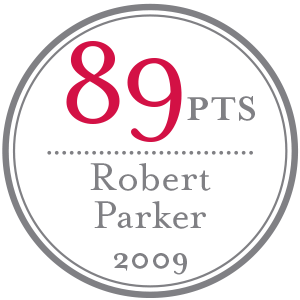
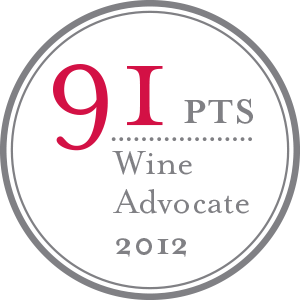
wine advocate
91 gr cs

Changed region(s): [[0.0, 0.0, 1.0, 1.0]]

diff --git a/yes/index.html b/yes/index.html
@@ -580,8 +580,8 @@
 						<div class="team-img">
 							<img  src="images/awards/06.png" alt="" />
 						</div>
-						<h5>Robert<br>Parker</h5>
-						<div class="team-subtext">2010 Grand Reserve Cabernet Sauvignon</div>
+						<h5>Wine<br>Advocate</h5>
+						<div class="team-subtext">2012 Grand Reserve Cabernet Sauvignon</div>
 						<p></p>
 					</div>
 				</div>
